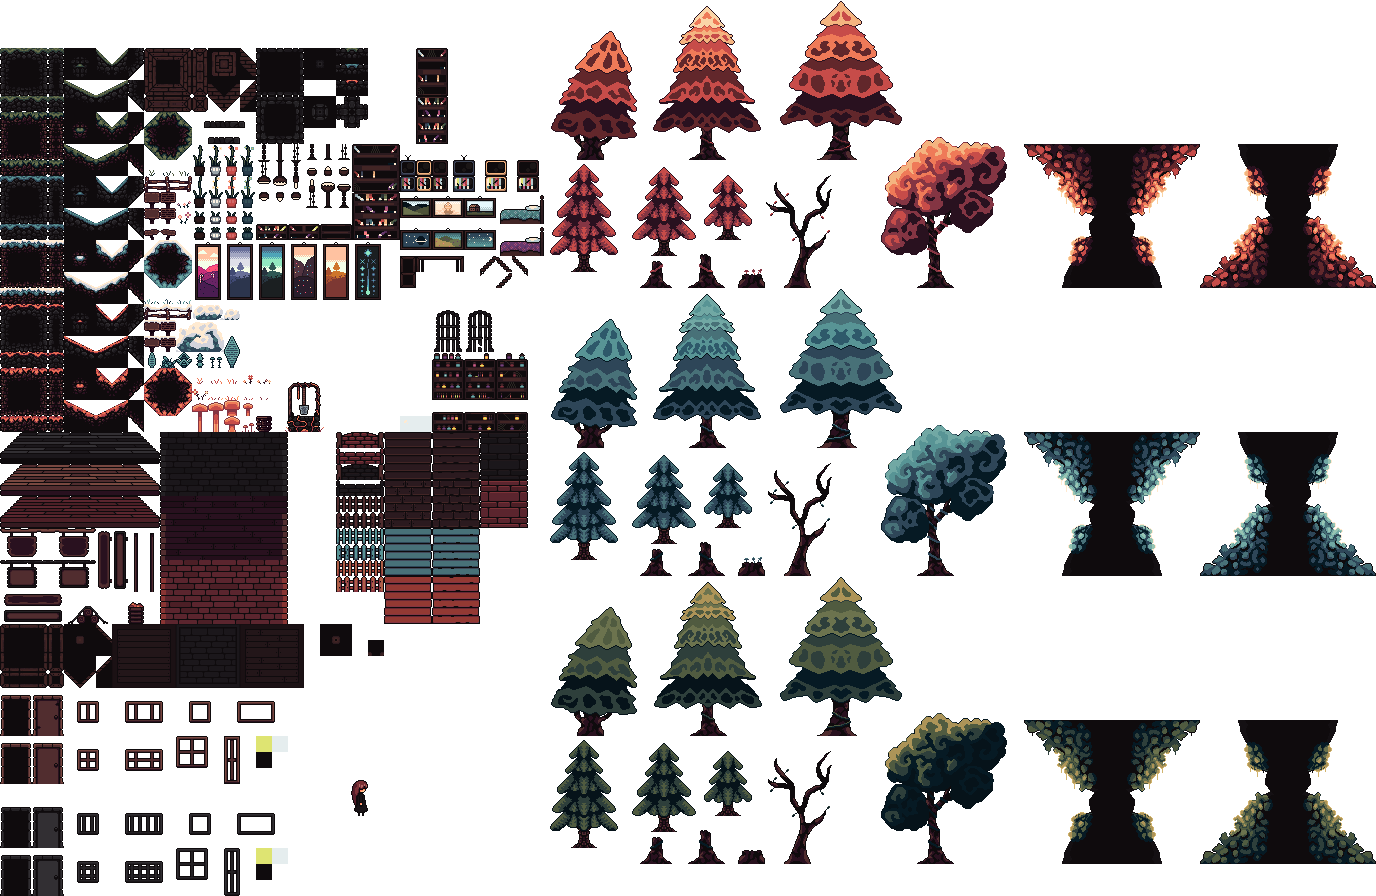
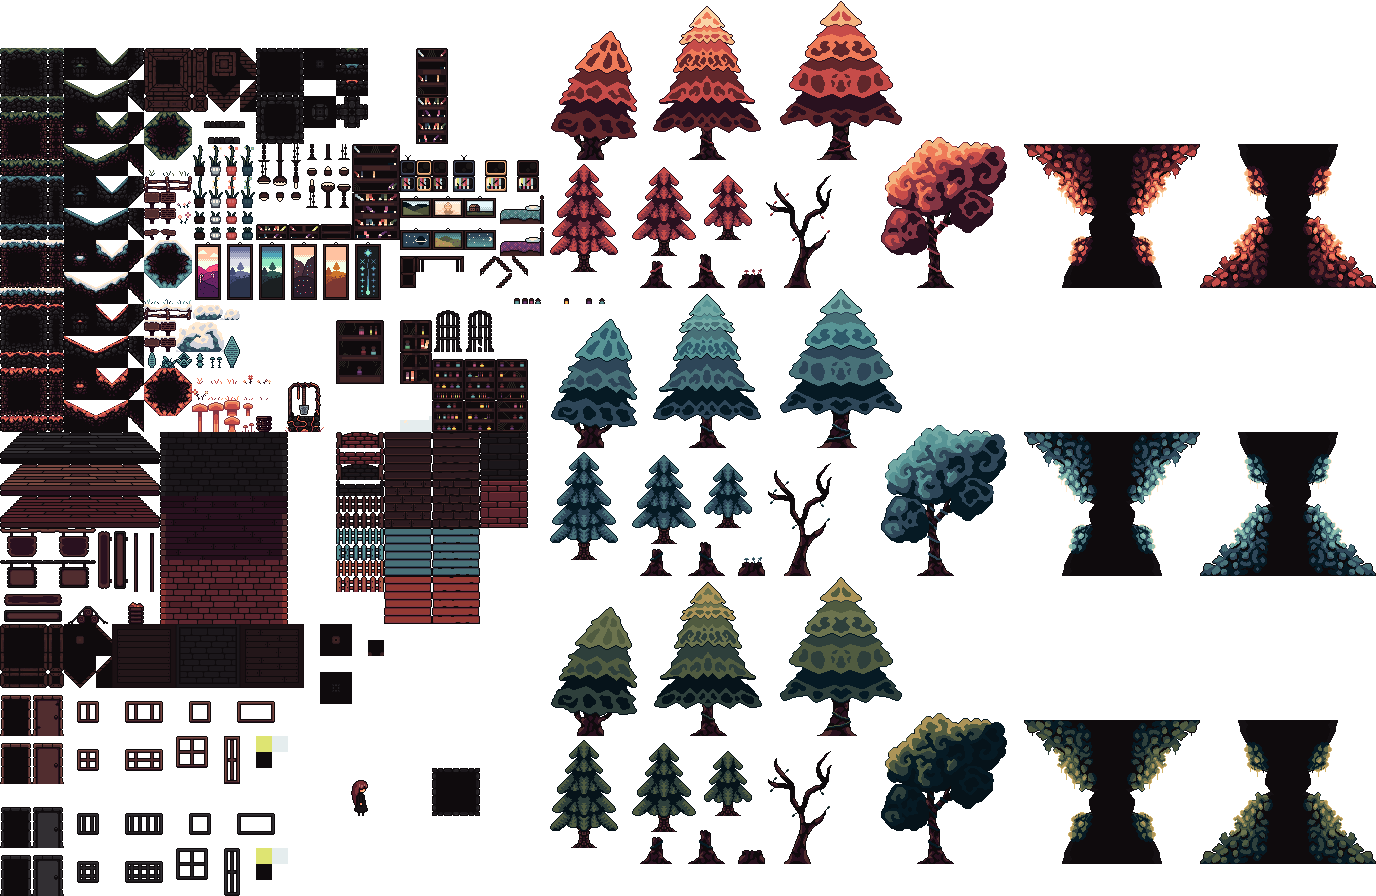
Continuação Fase 2

diff --git a/src/gameWorld.py b/src/gameWorld.py
@@ -59,18 +59,18 @@ class GameWorld:
             "0d777778.......6777cd77777777777777777c0",
             "05.................68.................40",
             "05....................................40",
+            "05..%.................................40",
+            "05!...................................40",
             "05....................................40",
-            "05....................................40",
-            "05....................................40",
-            "0b222223........12222223....1223......40",
-            "0d777778........67777778....6778......40",
-            "05....................................40",
-            "05....................................40",
-            "05.................................:..40",
-            "05....................................40",
-            "05....................................40",
-            "0b222222222222222222222222222222222222a0",
-            "0000000000000000000000000000000000000000",
+            "0b222223........12222223....12223.....40",
+            "0P777778........67777778....67778.....R0",
+            "0S....................................R0",
+            "0S........................-........:..R0",
+            "0S.......A.......................&....R0",
+            "0S.........................../...;....R0",
+            "0S.....*.( *)..............*.)&.).)&.*R0",
+            "0NQQQQQQQQQQQULLLTULLLTQQQQQQQQQQQQQQQM0",
+            "0000000000000NQQQMNQQQM00000000000000000",
         ]
 
         self.background = self._load_background()
@@ -633,27 +633,41 @@ class GameWorld:
             plataform_tile_map = {
                 "0": self.get_sprite(self.tileset, 1, 40, 16), # tile_DIRT
 
-                "1": self.get_sprite(self.tileset, 0, 39, 16), # tile_GROUND_TOP_LEFT
-                "2": self.get_sprite(self.tileset, 1, 39, 16), # tile_GROUND_TOP_CENTER
-                "3": self.get_sprite(self.tileset, 2, 39, 16), # tile_GROUND_TOP_RIGHT
+                "1": self.get_sprite(self.tileset, 0, 39, 16), # tile_WOODS_TOP_LEFT
+                "2": self.get_sprite(self.tileset, 1, 39, 16), # tile_WOODS_TOP_CENTER
+                "3": self.get_sprite(self.tileset, 2, 39, 16), # tile_WOODS_TOP_RIGHT
 
-                "4": self.get_sprite(self.tileset, 0, 40, 16), # tile_GROUND_MID_LEFT
-                "5": self.get_sprite(self.tileset, 2, 40, 16), # tile_GROUND_MID_RIGHT
+                "4": self.get_sprite(self.tileset, 0, 40, 16), # tile_WOODS_MID_LEFT
+                "5": self.get_sprite(self.tileset, 2, 40, 16), # tile_WOODS_MID_RIGHT
 
-                "6": self.get_sprite(self.tileset, 0, 41, 16), # tile_GROUND_BOT_LEFT
-                "7": self.get_sprite(self.tileset, 1, 41, 16), # tile_GROUND_BOT_CENTER
-                "8": self.get_sprite(self.tileset, 2, 41, 16), # tile_GROUND_BOT_RIGHT
+                "6": self.get_sprite(self.tileset, 0, 41, 16), # tile_WOODS_BOT_LEFT
+                "7": self.get_sprite(self.tileset, 1, 41, 16), # tile_WOODS_BOT_CENTER
+                "8": self.get_sprite(self.tileset, 2, 41, 16), # tile_WOODS_BOT_RIGHT
 
-                "a": self.get_sprite(self.tileset, 21, 40, 16), # tile_GROUND_CORNER_TOP_LEFT
-                "b": self.get_sprite(self.tileset, 20, 40, 16), # tile_GROUND_CORNER_TOP_RIGHT
-                "c": self.get_sprite(self.tileset, 21, 39, 16), # tile_GROUND_CORNER_BOT_LEFT
-                "d": self.get_sprite(self.tileset, 20, 39, 16), # tile_GROUND_CORNER_BOT_RIGHT
+                "a": self.get_sprite(self.tileset, 21, 40, 16), # tile_WOODS_CORNER_TOP_LEFT
+                "b": self.get_sprite(self.tileset, 20, 40, 16), # tile_WOODS_CORNER_TOP_RIGHT
+                "c": self.get_sprite(self.tileset, 21, 39, 16), # tile_WOODS_CORNER_BOT_LEFT
+                "d": self.get_sprite(self.tileset, 20, 39, 16), # tile_WOODS_CORNER_BOT_RIGHT
 
-                "e": self.get_sprite(self.tileset, 23, 40, 16), # tile_GROUND_ISLAND_TOP
-                "f": self.get_sprite(self.tileset, 3, 40, 16), # tile_GROUND_ISLAND_MID
-                "g": self.get_sprite(self.tileset, 3, 41, 16), # tile_GROUND_ISLAND_BOT
+                "e": self.get_sprite(self.tileset, 23, 40, 16), # tile_WOODS_ISLAND_TOP
+                "f": self.get_sprite(self.tileset, 3, 40, 16), # tile_WOODS_ISLAND_MID
+                "g": self.get_sprite(self.tileset, 3, 41, 16), # tile_WOODS_ISLAND_BOT
 
-                ":": self._make_decoration_block_auto((22, 9), 3, 3), # tile_BLOCK_BOOKSHELF1
+                "T": self.get_sprite(self.tileset, 16, 3, 16), # tile_STONE_TOP_LEFT
+                "Q": self.get_sprite(self.tileset, 17, 3, 16), # tile_STONE_TOP_CENTER
+                "U": self.get_sprite(self.tileset, 18, 3, 16), # tile_STONE_TOP_RIGHT
+
+                "R": self.get_sprite(self.tileset, 16, 4, 16), # tile_STONE_MID_LEFT
+                "S": self.get_sprite(self.tileset, 18, 4, 16), # tile_STONE_MID_RIGHT
+
+                "M": self.get_sprite(self.tileset, 21, 43, 16), # tile_STONE_CORNER_TOP_LEFT
+                "N": self.get_sprite(self.tileset, 20, 43, 16), # tile_STONE_CORNER_TOP_RIGHT
+                "O": self.get_sprite(self.tileset, 21, 42, 16), # tile_STONE_CORNER_BOT_LEFT
+                "P": self.get_sprite(self.tileset, 20, 42, 16), # tile_STONE_CORNER_BOT_RIGHT
+            
+                ":": self._make_decoration_block_auto((21,20), 3, 4), # tile_BLOCK_BOOKSHELF-1
+                ";": self._make_decoration_block_auto((25,20), 2, 2), # tile_BLOCK_BOOKSHELF-2
+                "/": self._make_decoration_block_auto((25,22), 2, 2), # tile_BLOCK_BOOKSHELF-3
             }
 
             for y, row in enumerate(self.map):
@@ -663,9 +677,11 @@ class GameWorld:
 
                         # Verifica se é o bloco 3x3 (ou outro maior que 1 tile)
                         if tile_char == ":":
-                            img = pygame.transform.scale(block_surface, (3 * TILE_SIZE, 3 * TILE_SIZE))
-                            size = pygame.math.Vector2(3 * TILE_SIZE, 3 * TILE_SIZE)
-
+                            img = pygame.transform.scale(block_surface, (3 * TILE_SIZE, 4 * TILE_SIZE))
+                            size = pygame.math.Vector2(3 * TILE_SIZE, 4 * TILE_SIZE)
+                        elif tile_char == ";" or tile_char == "/":
+                            img = pygame.transform.scale(block_surface, (2 * TILE_SIZE, 2 * TILE_SIZE))
+                            size = pygame.math.Vector2(2 * TILE_SIZE, 2 * TILE_SIZE)
                         else:
                             img = pygame.transform.scale(block_surface, (TILE_SIZE, TILE_SIZE))
                             size = pygame.math.Vector2(TILE_SIZE, TILE_SIZE)
@@ -741,10 +757,19 @@ class GameWorld:
 
         if(level == 2):       
             decoration_tile_map = {
-                "@": self._make_decoration_block_auto((14, 15), 2, 4), # tile_block_FRAME1
-                "#": self._make_decoration_block_auto((16, 15), 2, 4), # tile_block_FRAME2
-                "$": self._make_decoration_block_auto((20, 15), 2, 4), # tile_block_FRAME3
+                "!": self._make_decoration_block_auto((15, 9), 1, 2), # tile_FLOWER-1
 
+                "@": self._make_decoration_block_auto((14, 15), 2, 4), # tile_block_FRAME-1
+                "#": self._make_decoration_block_auto((16, 15), 2, 4), # tile_block_FRAME-2
+                "$": self._make_decoration_block_auto((20, 15), 2, 4), # tile_block_FRAME-3
+                "-": self._make_decoration_block_auto((25, 14), 2, 2), # tile_block_FRAME-4
+
+                "%": self._make_decoration_block_auto((2, 43), 2, 3), # tile_block_DOOR
+
+                ")": self.get_sprite(self.tileset, 14, 24, 16),  # tile_UNDERGROUND_PLANT-0
+                "*": self.get_sprite(self.tileset, 14, 23, 16),  # tile_UNDERGROUND_PLANT-1
+                "&": self.get_sprite(self.tileset, 15, 26, 16),  # tile_UNDERGROUND_PLANT-2
+                "(": self.get_sprite(self.tileset, 16, 23, 16),  # tile_UNDERGROUND_PLANT-3
             }
 
             for y, row in enumerate(self.map):
@@ -756,6 +781,15 @@ class GameWorld:
                         if tile_char == "@" or tile_char == "#" or tile_char == "$":
                             img = pygame.transform.scale(block_surface, (2 * TILE_SIZE, 4 * TILE_SIZE))
                             size = pygame.math.Vector2(2 * TILE_SIZE, 4 * TILE_SIZE)
+                        elif tile_char == "%":
+                            img = pygame.transform.scale(block_surface, (2 * TILE_SIZE, 3 * TILE_SIZE))
+                            size = pygame.math.Vector2(2 * TILE_SIZE, 3 * TILE_SIZE)
+                        elif tile_char == "!":
+                            img = pygame.transform.scale(block_surface, (1 * TILE_SIZE, 2 * TILE_SIZE))
+                            size = pygame.math.Vector2(1 * TILE_SIZE, 2 * TILE_SIZE)
+                        elif tile_char == "-":
+                            img = pygame.transform.scale(block_surface, (2 * TILE_SIZE, 2 * TILE_SIZE))
+                            size = pygame.math.Vector2(2 * TILE_SIZE, 2 * TILE_SIZE)
                         else:
                             img = pygame.transform.scale(block_surface, (TILE_SIZE, TILE_SIZE))
                             size = pygame.math.Vector2(TILE_SIZE, TILE_SIZE)
